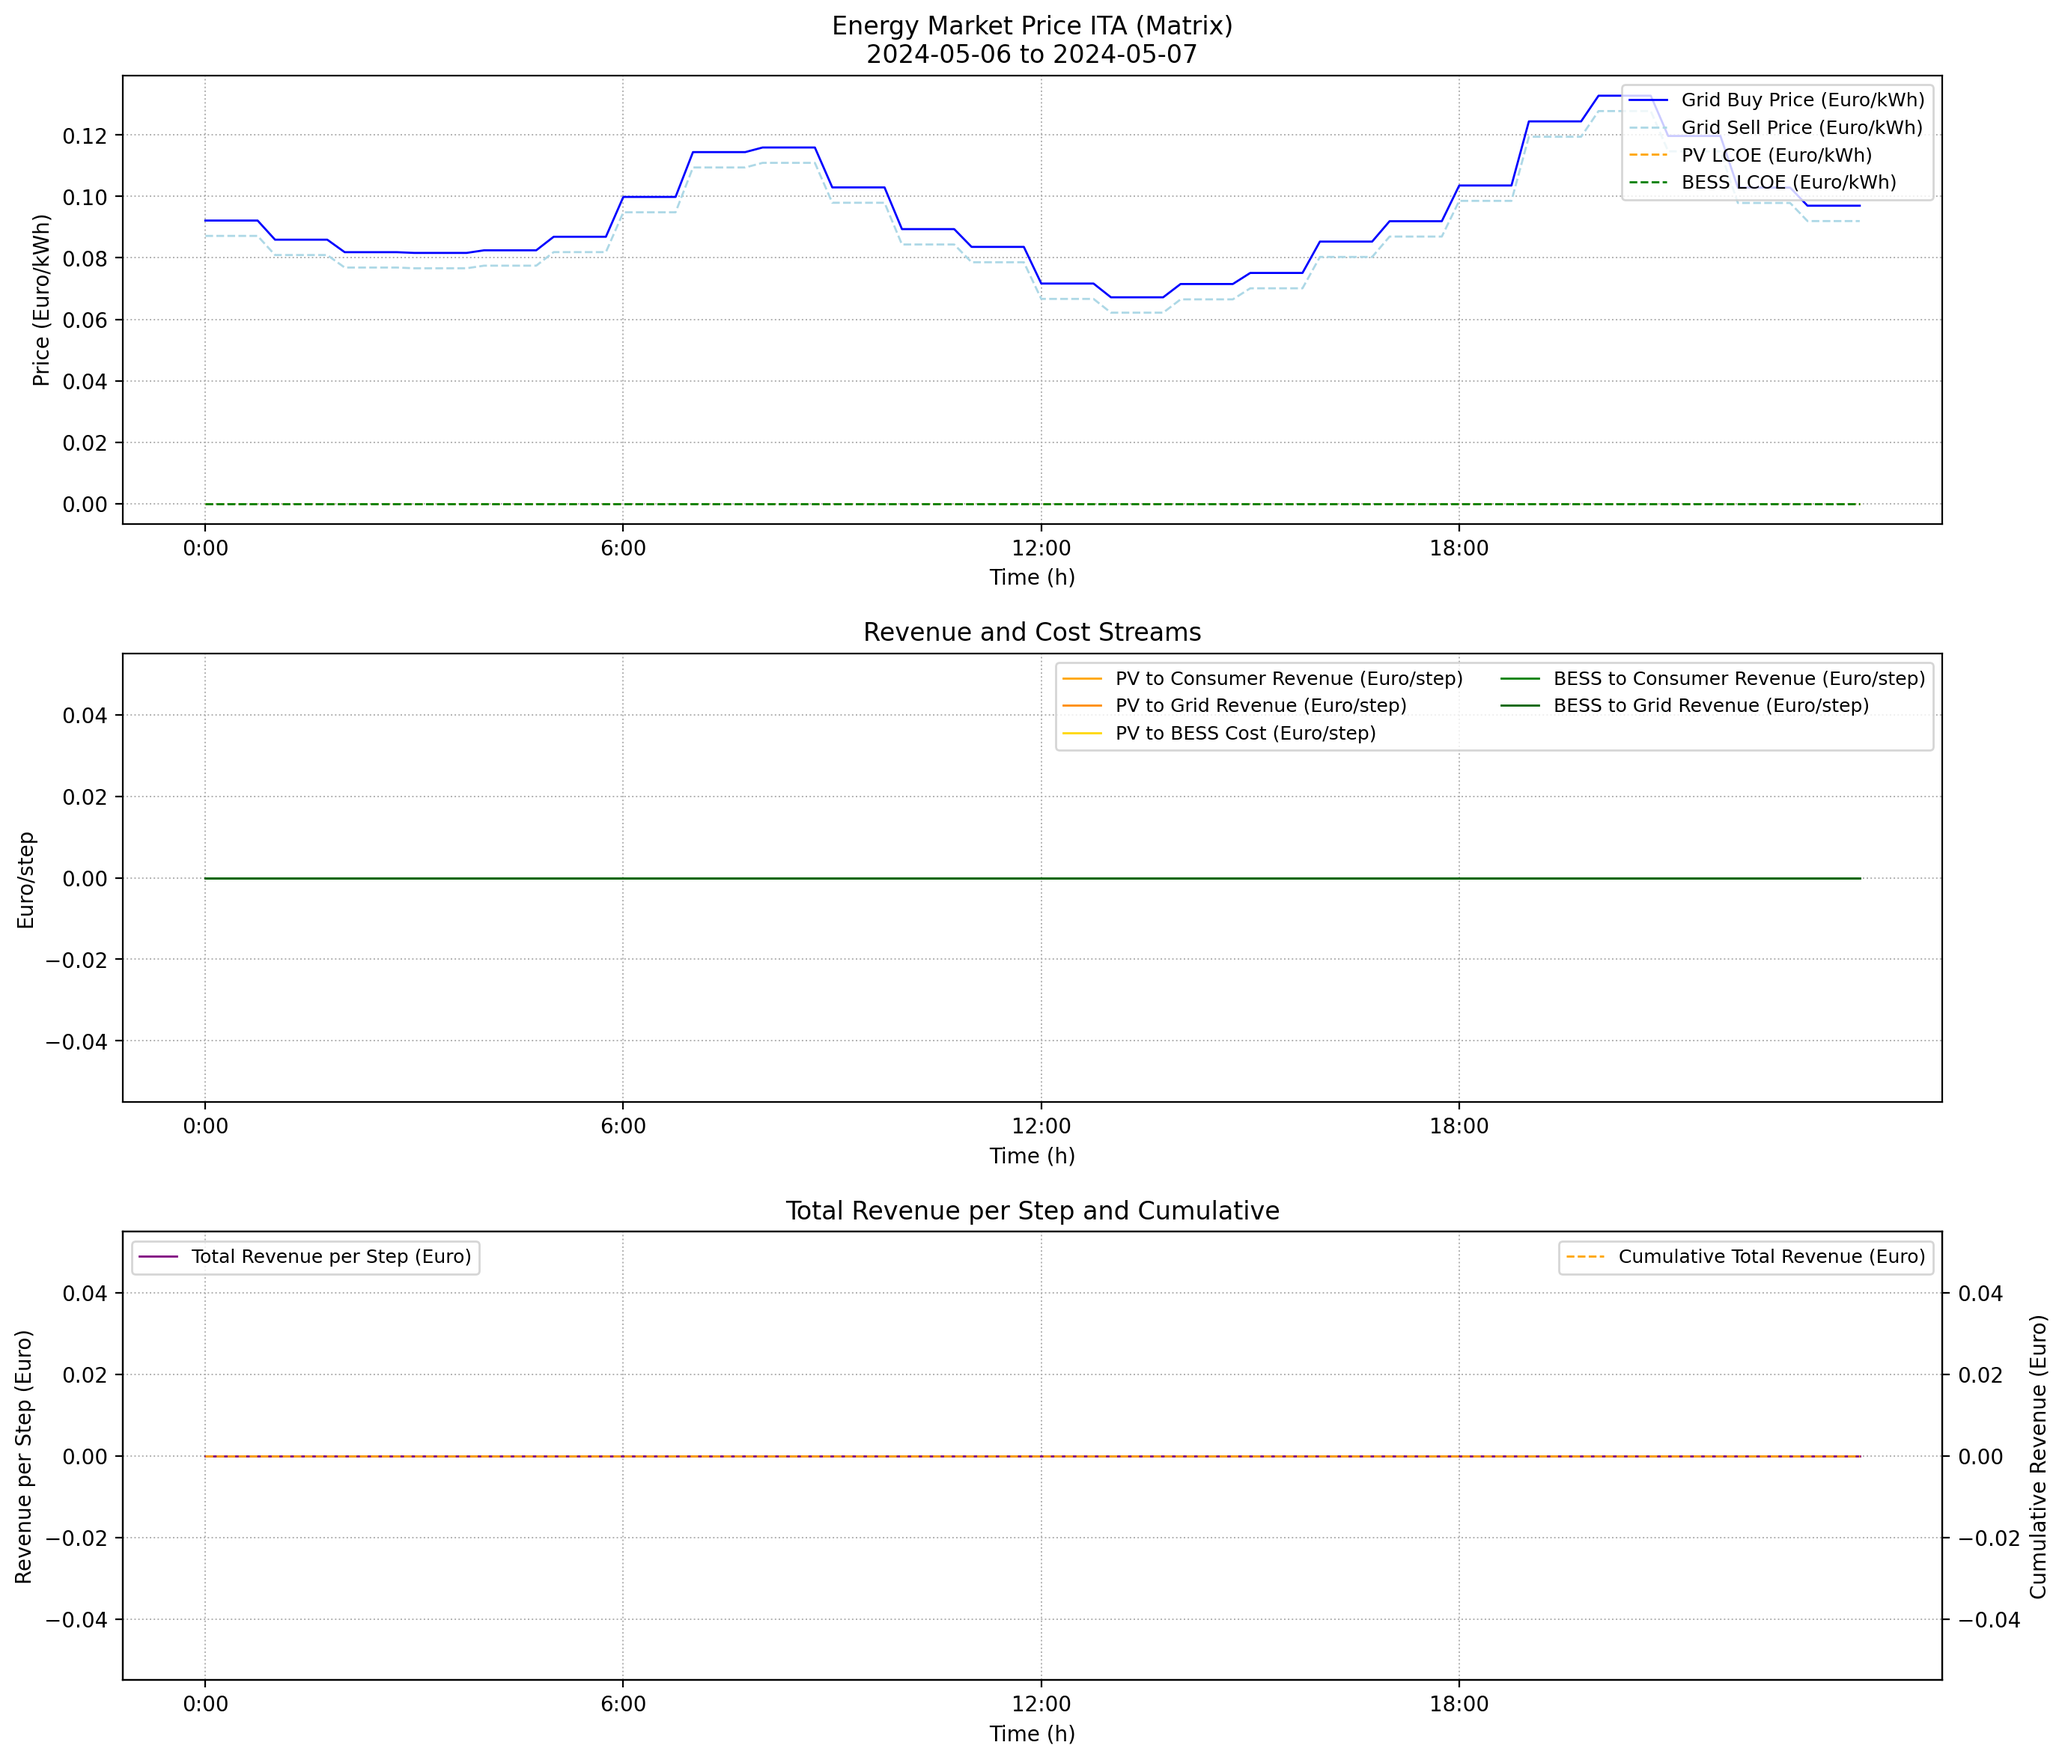
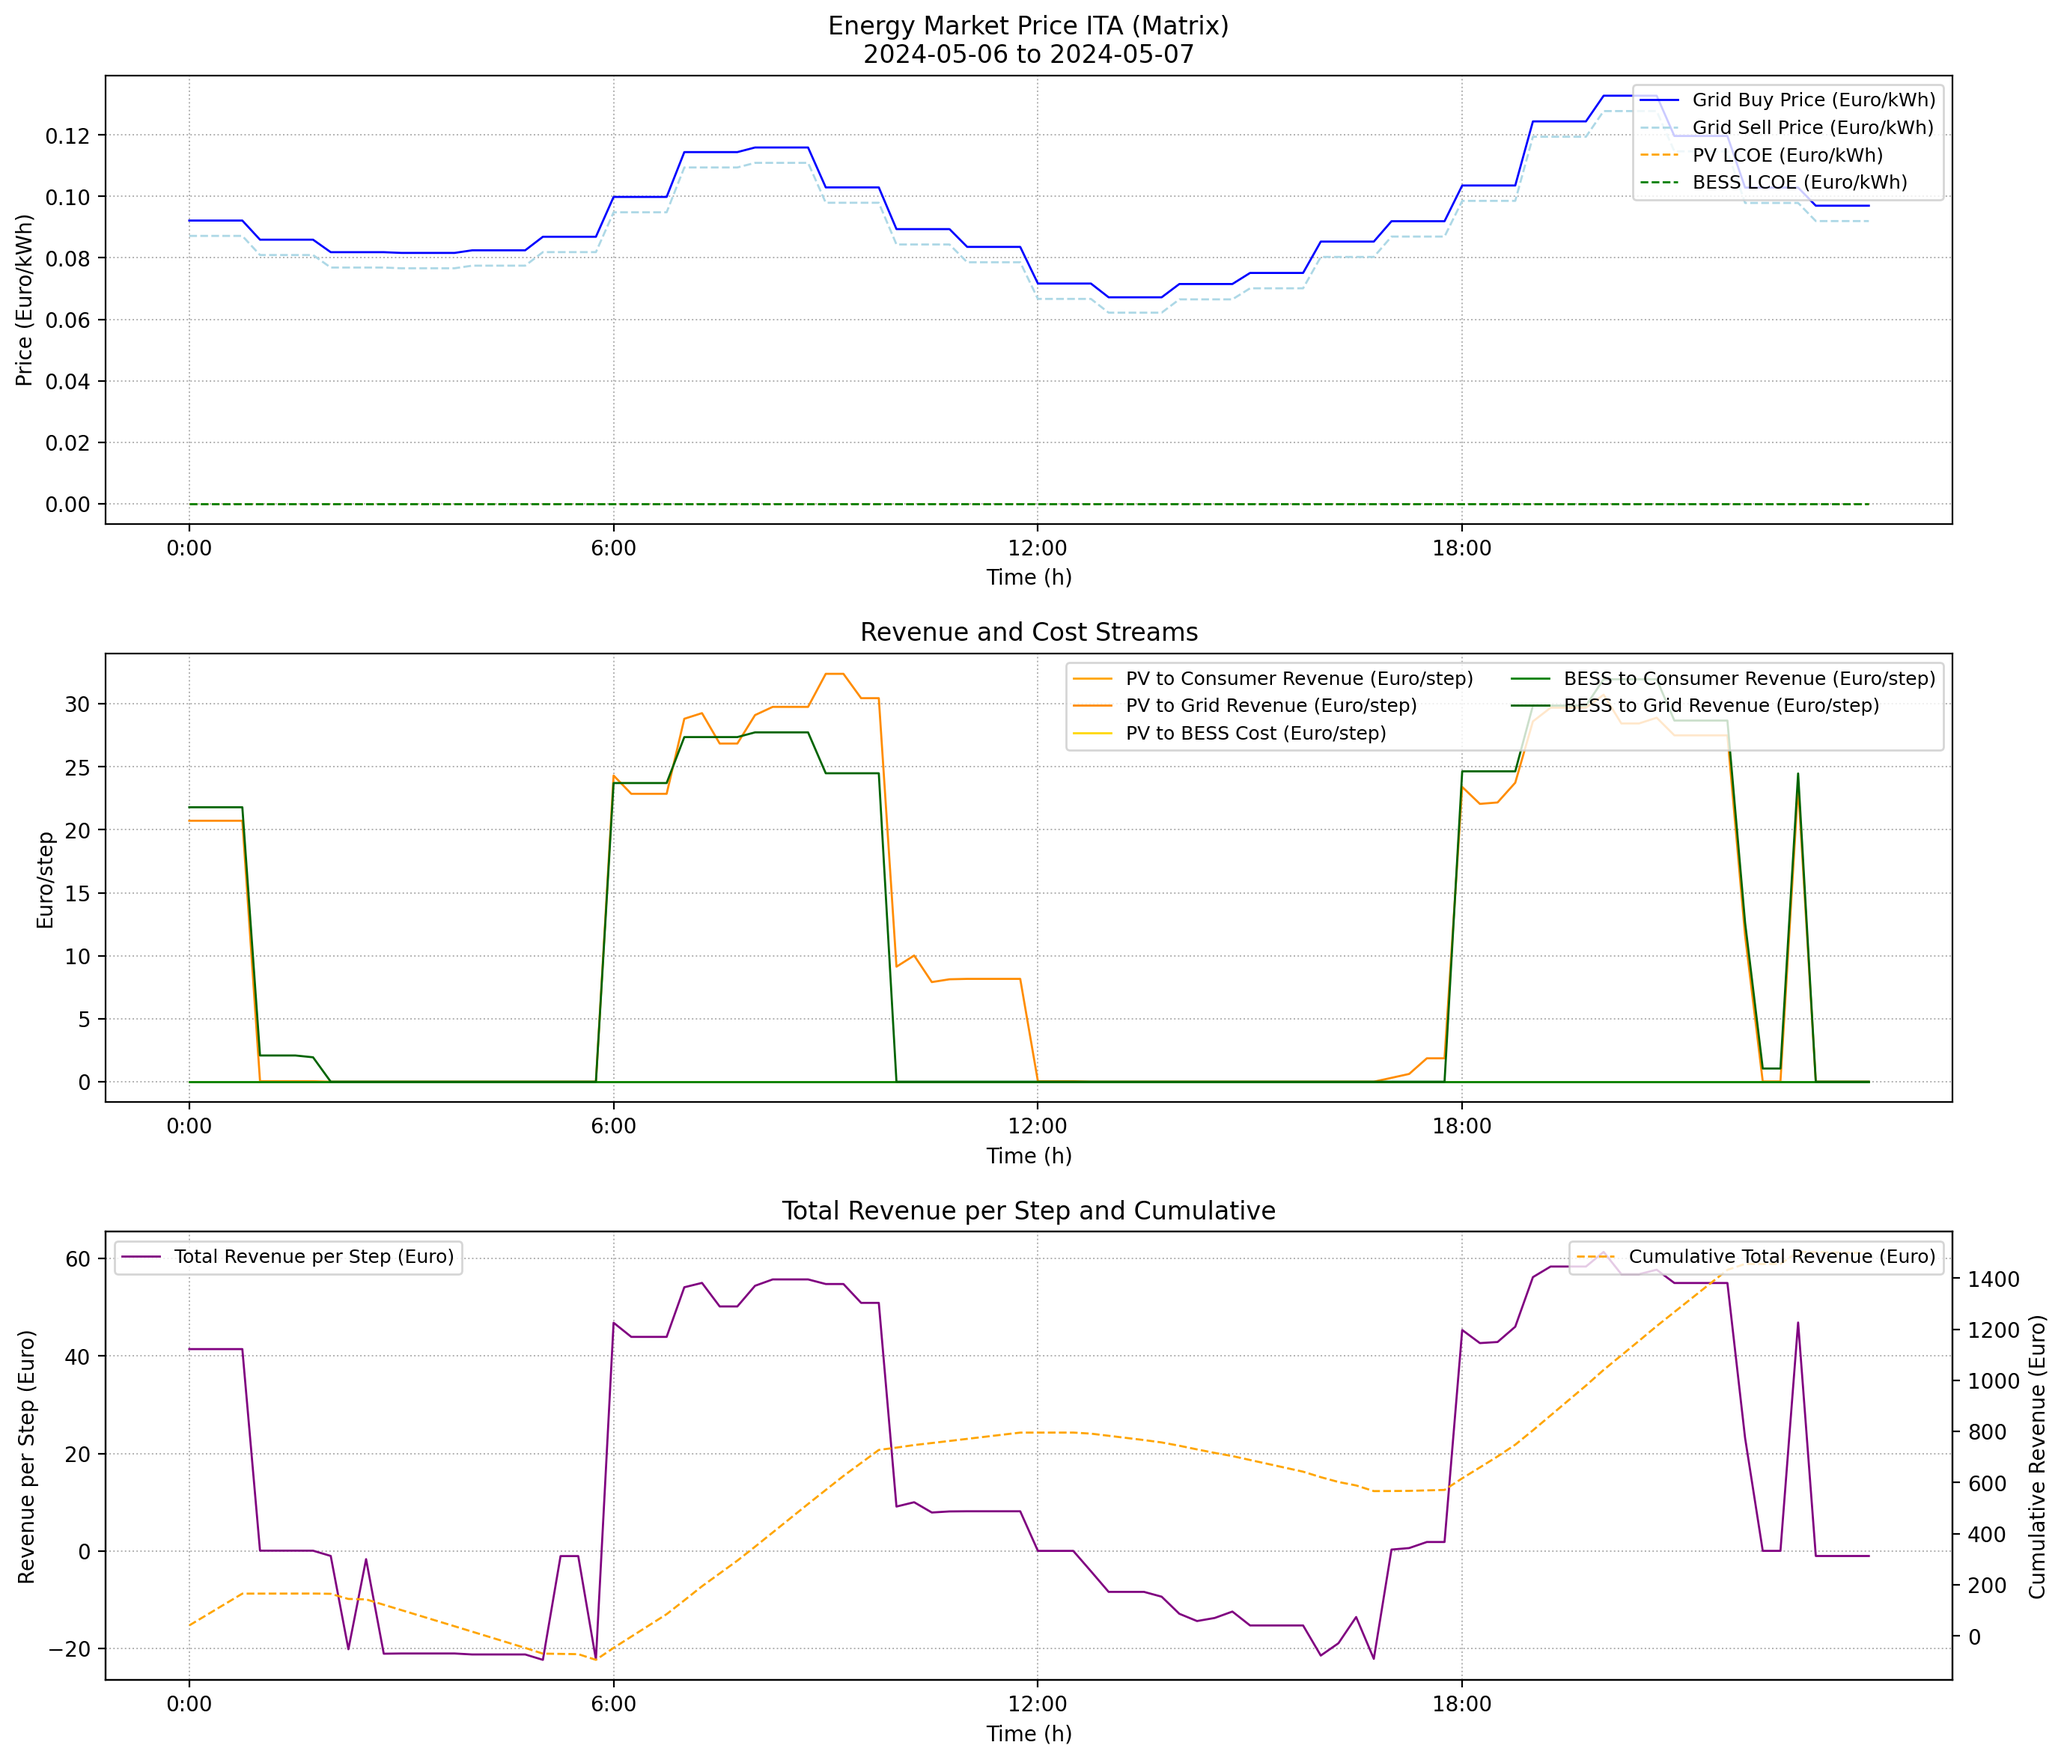
working on mpc fixed bugs

diff --git a/Computing Files/mpc.py b/Computing Files/mpc.py
@@ -47,9 +47,13 @@ class MPC:
         n.add("Bus", "AC", carrier='AC')
         n.add("Bus", "DC", carrier='DC')
         n.add("Bus", "Grid", carrier='AC')
+        n.add("Bus", "Grid_Sink", carrier='AC')  # Dummy sink bus for grid
 
         # DC/AC converter (bidirectional) with carrier
         n.add("Link", "DC_AC_Converter", bus0="DC", bus1="AC", p_nom=1e6, p_min_pu=-1, efficiency=0.98, efficiency2=0.98, marginal_cost=0, carrier='DC')
+
+        # Add dummy link to absorb excess grid export
+        n.add("Link", "Grid_Dump", bus0="Grid", bus1="Grid_Sink", p_nom=1e9, efficiency=0, marginal_cost=0, carrier='AC')
 
         # PV generator (DC bus)
         pv_nom = max(pv_forecast)
@@ -98,11 +102,12 @@ class MPC:
         # Create model
         n.optimize.create_model()
 
+        #PyPSA Handels SOC bounds of Storage systems internally (later set lower bound)
         # Add SOC constraints (if BESS exists)
-        if "BESS" in n.storage_units.index:
-            soc_var = n.model["StorageUnit-state_of_charge"]
-            n.model.add_constraints(soc_var >= min_soc, name="SOC_min")
-            n.model.add_constraints(soc_var <= max_soc, name="SOC_max")
+        #if "BESS" in n.storage_units.index:
+        #    soc_var = n.model["StorageUnit-state_of_charge"]
+        #    n.model.add_constraints(soc_var >= min_soc, name="SOC_min")
+        #    n.model.add_constraints(soc_var <= max_soc, name="SOC_max")
 
         
         # Run optimization
@@ -123,8 +128,8 @@ class MPC:
             link_dc_to_ac = 0
             grid_import = 0
             grid_export = 0
-            consumer_load = 0
-            ev_load = 0
+            consumer_load = demand_forecast[0]
+            ev_load = ev_forecast[0]
         else:
             # Defensive extraction for PV
             if "PV" in n.generators_t.p.columns:
@@ -135,7 +140,7 @@ class MPC:
             # Defensive extraction for BESS
             if "BESS" in n.storage_units_t.p.columns:
                 bess_dispatch = n.storage_units_t.p["BESS"].values[0]
-                soc_next = n.storage_units_t.state_of_charge["BESS"].values[1] * self.bess_capacity if len(n.storage_units_t.state_of_charge["BESS"]) > 1 else soc
+                soc_next = n.storage_units_t.state_of_charge["BESS"].values[0] #if len(n.storage_units_t.state_of_charge["BESS"]) > 1 else soc
             else:
                 bess_dispatch = 0
                 soc_next = soc

diff --git a/Computing Files/post_process.py b/Computing Files/post_process.py
@@ -37,6 +37,13 @@ def compute_revenues(results, data):
     pv_to_consumer_rev = results['P_PV_consumer_vals'] * data['lcoe_pv'] * data['delta_t']
     pv_to_ev_rev = results['P_PV_ev_vals'] * data['lcoe_pv'] * data['delta_t']
 
+    # Calculate additional revenue streams for plotting
+    pv_to_grid_rev = results['P_PV_grid_vals'] * data['grid_sell_price'] * data['delta_t']
+    pv_to_bess_cost = results['P_PV_consumer_vals'] * data['lcoe_pv'] * data['delta_t']  # If you have a cost for storing PV in BESS, adjust this
+    bess_to_consumer_rev = results['P_BESS_consumer_vals'] * data['lcoe_bess'] * data['delta_t']
+    bess_to_grid_rev = results['P_BESS_grid_vals'] * data['grid_sell_price'] * data['delta_t']
+    total_net_per_step = grid_sell_revenue - grid_buy_cost  # Net revenue per step
+
     total_revenue = np.sum(grid_sell_revenue - grid_buy_cost)
 
     revenues = {
@@ -44,6 +51,11 @@ def compute_revenues(results, data):
         'grid_buy_cost': grid_buy_cost,
         'pv_to_consumer_rev': pv_to_consumer_rev,
         'pv_to_ev_rev': pv_to_ev_rev,
+        'pv_to_grid_rev': pv_to_grid_rev,
+        'pv_to_bess_cost': pv_to_bess_cost,
+        'bess_to_consumer_rev': bess_to_consumer_rev,
+        'bess_to_grid_rev': bess_to_grid_rev,
+        'total_net_per_step': total_net_per_step,
         'total_revenue': total_revenue
     }
     

diff --git a/Computing Files/main_Optimization.py b/Computing Files/main_Optimization.py
@@ -55,9 +55,10 @@ P_grid_export_vals = np.zeros(n_steps)
 # Define forecast padding helper
 def pad_to_horizon(arr, horizon, pad_value=None):
     if len(arr) < horizon:
-        if pad_value is None:
-            pad_value = np.mean(arr) if len(arr) > 0 else 0
-        return np.pad(arr, (0, horizon - len(arr)), mode='constant', constant_values=pad_value)
+        if len(arr) > 0:
+            return np.pad(arr, (0, horizon - len(arr)), mode='edge')
+        else:
+            return np.zeros(horizon)
     return arr[:horizon]
 
 # MPC loop

diff --git a/Computing Files/load_data.py b/Computing Files/load_data.py
@@ -41,7 +41,7 @@ def fetch_prices(start_dt, end_dt, use_api=True):
         raise ValueError(f"Expected 168 hourly prices, got {len(grid_buy_price_raw)}.")
     return grid_buy_price_raw, grid_sell_price_raw
 
-def load(reference_case=False, use_api=True):
+def load(reference_case=True, use_api=False):
     """
     Load all input data for the simulation.
     Returns:
